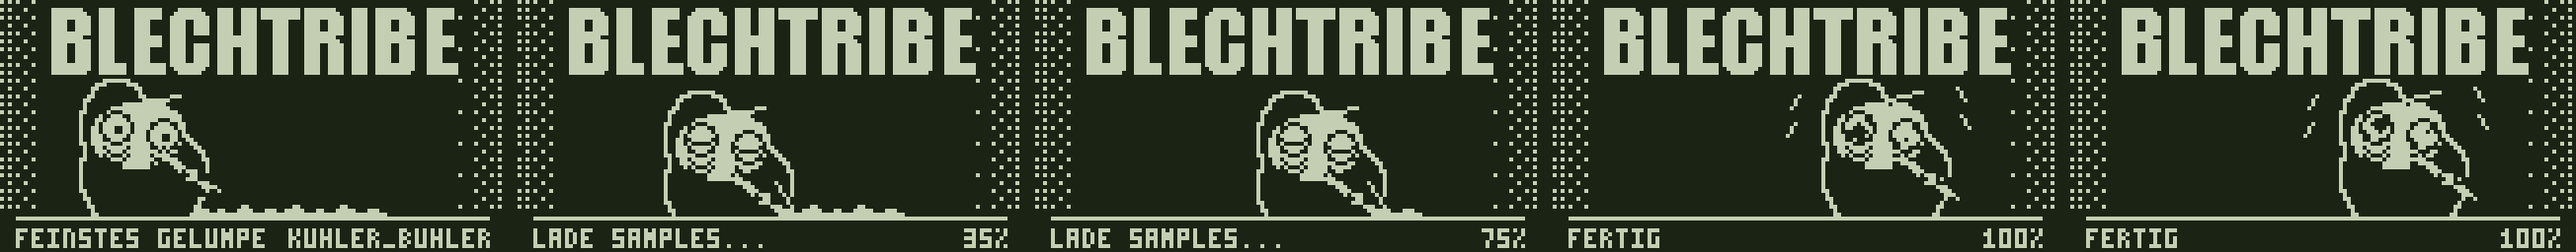
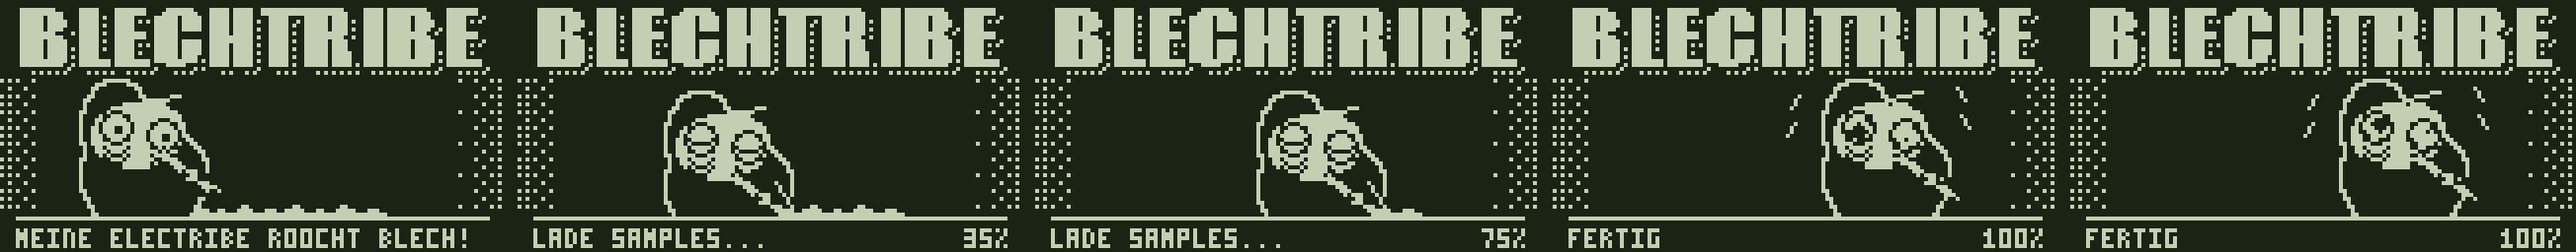
Blechy loading: full-width BLECHTRIBE with a dithered shadow, tagline MEINE ELECTRIBE ROOCHT BLECH!

Changed region(s): [[0.0, 0.0, 1.0, 0.3125], [0.0311, 0.9062, 0.1863, 1.0]]

diff --git a/entwuerfe/design-1.3/geraet/anim.py b/entwuerfe/design-1.3/geraet/anim.py
@@ -346,17 +346,47 @@ def status(image, state, x, y, *, small=False, tall=False):
     text(image, word, x, y, small=small, tall=tall)
 
 
+TAGLINE = "MEINE ELECTRIBE ROOCHT BLECH!"
+
+
 def status_line(state):
     """Footer text; the firmware fills in what it is doing."""
     return "FERTIG" if state.done else "LADE SAMPLES..."
 
 
-WORDMARK_SHIFT = 8                # the PNG starts at x 4 and is 104 wide: centred at 12
+WORDMARK_SHIFT = 0                # make_wordmark() already centres it
+IMPACT = Path("/System/Library/Fonts/Supplemental/Impact.ttf")
+
+
+def make_wordmark():
+    """Write blechtribe-titel.png: Impact stretched to 118 x 15 at (4, 2), with a
+    dithered shadow 2 px right and down, kept clear of the letters by one pixel.
+    Needs Impact (macOS); everyone else reads the checked-in PNG."""
+    from PIL import ImageFont
+    for size in range(40, 8, -1):
+        font = ImageFont.truetype(str(IMPACT), size)
+        l, t, rr, b = font.getbbox("BLECHTRIBE")
+        if b - t <= 15:
+            break
+    glyphs = Image.new("L", (rr - l, b - t), 0)
+    ImageDraw.Draw(glyphs).text((-l, -t), "BLECHTRIBE", font=font, fill=255)
+    glyphs = glyphs.resize((118, b - t), Image.Resampling.NEAREST).point(lambda v: 255 if v >= 128 else 0, "1")
+    letters = blank()
+    letters.paste(glyphs, (4, 2))
+    halo = letters.filter(ImageFilter.MaxFilter(3))
+    shadow = ImageChops.offset(letters, 2, 2)
+    out = letters.copy()
+    po, ps, ph = out.load(), shadow.load(), halo.load()
+    for y in range(H):
+        for x in range(W):
+            if ps[x, y] and not ph[x, y] and (x + y) % 2 == 0:
+                po[x, y] = LIGHT
+    ImageChops.invert(out.convert("L")).convert("1").save(HERE / "blechtribe-titel.png")
 
 
 @lru_cache(maxsize=1)
 def wordmark():
-    """BLECHTRIBE as one word, Impact 22 at (4, 2), read from the checked-in PNG (black = lit)."""
+    """BLECHTRIBE with its dithered shadow, read from the checked-in PNG (black = lit)."""
     with Image.open(HERE / "blechtribe-titel.png") as source:
         return ImageChops.invert(source.convert("L")).point(lambda v: 255 if v >= 128 else 0, "1")
 
@@ -385,14 +415,14 @@ def draw_dashes(image, state):
 LUMPS = tuple(int(c) for c in "0111001100012210001110011221000110001221100011100")
 
 BAYER4 = (0, 8, 2, 10, 12, 4, 14, 6, 3, 11, 1, 9, 15, 7, 13, 5)
-BAND_WIDTH, BAND_BOTTOM = 14, 53
+BAND_WIDTH, BAND_TOP, BAND_BOTTOM = 14, 20, 53     # below the full-width wordmark
 
 
 def draw_bands(image):
     """Static dither bands at both sides, as in the app background (bandDensity in site/design/bg.js):
     dots on a 2 pixel pitch, denser towards the edge. Drawn first, everything else covers it."""
     px = image.load()
-    for y in range(0, BAND_BOTTOM, 2):
+    for y in range(BAND_TOP, BAND_BOTTOM, 2):
         for x in range(0, W, 2):
             edge = min(x, W - 1 - x)
             if edge >= BAND_WIDTH:
@@ -427,8 +457,7 @@ def werkbank(state, t_ms=0):
     box = (0, 20, W, TABLE_Y)
     image.paste(gesture.crop(box), (0, 20), coverage.crop(box))
     if not state.started:
-        text(image, "FEINSTES GELUMPE", 4, 58, small=True)
-        text(image, "KUHLER_BUHLER", 124 - r.width3("KUHLER_BUHLER"), 58, small=True)
+        text(image, TAGLINE, 4, 58, small=True)
         return image
     text(image, status_line(state), 4, 58, small=True)
     percent(image, state)
@@ -708,8 +737,12 @@ def main():
                         help="output root containing png/neu and vorschau/neu")
     parser.add_argument("--palette", choices=("lcd", "mono"), default="lcd")
     parser.add_argument("--pack", action="store_true", help="also write preview framebuffer snapshots, not patches")
+    parser.add_argument("--wordmark", action="store_true", help="rewrite blechtribe-titel.png from Impact first")
     parser.add_argument("--controller-inverted", action="store_true", help="complement packed bits for display A7")
     args = parser.parse_args()
+    if args.wordmark:
+        make_wordmark()
+        wordmark.cache_clear()
     preview_dir, raw_dir = args.output / "vorschau/neu", args.output / "png/neu"
     preview_dir.mkdir(parents=True, exist_ok=True)
     raw_dir.mkdir(parents=True, exist_ok=True)

diff --git a/entwuerfe/design-1.3/geraet/test_anim.py b/entwuerfe/design-1.3/geraet/test_anim.py
@@ -109,8 +109,7 @@ class FrameContractTests(unittest.TestCase):
     def test_footer_shows_the_status_text(self):
         still = anim.render_frame("werkbank", 0, pose="ready", started=False).crop((0, 56, 128, 64))
         tagline = anim.blank()
-        anim.text(tagline, "FEINSTES GELUMPE", 4, 58, small=True)
-        anim.text(tagline, "KUHLER_BUHLER", 124 - anim.r.width3("KUHLER_BUHLER"), 58, small=True)
+        anim.text(tagline, "MEINE ELECTRIBE ROOCHT BLECH!", 4, 58, small=True)
         self.assertEqual(still.tobytes(), tagline.crop((0, 56, 128, 64)).tobytes(),
                          "The still splash has no status yet, only the tagline")
         self.assertEqual(anim.status_line(anim.pass_state(0.5)), "LADE SAMPLES...")

diff --git a/entwuerfe/design-1.3/geraet/render.py b/entwuerfe/design-1.3/geraet/render.py
@@ -377,6 +377,7 @@ F3 = {
     "6": "111100111101111", "7": "111001001010010", "8": "111101111101111", "9": "111101111001111",
     "%": "101001010100101", ".": "000000000000010", "_": "000000000000111", " ": "000000000000000",
     "'": "010010000000000",
+    "!": "010010010000010",
 }
 
 

diff --git a/entwuerfe/design-1.3/geraet/README.md b/entwuerfe/design-1.3/geraet/README.md
@@ -7,11 +7,14 @@ links nach rechts weg. Die Line ist der Balken: wo die Rohrspitze steht, steht d
 guckt er dich an. Beim Ziehen hat er die Augen zu, sonst bewegt sich nur das Ziehen. Bei 100 %
 reißt er sie auf: ein Auge mit riesiger, eins mit winziger Pupille, beide zittern, das kleine ist blutunterlaufen,
 die Braue zuckt, neben dem Kopf Zitterstriche wie bei den Terror-Sprites. Der Arm auf dem Tisch ist weg, nur die
-Hand mit dem Röhrchen bleibt. Oben mittig
-BLECHTRIBE als ein Wort (Impact 22, `blechtribe-titel.png`). Unten im Startbild "FEINSTES GELUMPE" und
-"KUHLER_BUHLER", beim Laden links der Status ("LADE SAMPLES...", "FERTIG") und rechts die Prozentzahl. Die Line liegt
+Hand mit dem Röhrchen bleibt. Oben
+BLECHTRIBE als ein Wort, Impact auf 118 x 15 Pixel gestreckt, mit gerastertem Schatten 2 Pixel nach rechts unten
+(`blechtribe-titel.png`, neu erzeugen mit `anim.py --wordmark`, braucht Impact). Unten im Startbild
+"MEINE ELECTRIBE ROOCHT BLECH!", beim Laden links der Status ("LADE SAMPLES...", "FERTIG") und rechts die Prozentzahl. Die Line liegt
 auf dem Tisch und hat Buckel (1 bis 2 Pixel). Hintergrund: feste Dither-Bänder an beiden Rändern wie
-in der App (`bandDensity` in `site/design/bg.js`), Punkte im 2-Pixel-Raster, zum Rand hin dichter, 14 Pixel breit.
+in der App (`bandDensity` in `site/design/bg.js`), Punkte im 2-Pixel-Raster, zum Rand hin dichter, 14 Pixel breit,
+unter dem Schriftzug ab Zeile 20. Die Varianten des Schriftzugs liegen in `vorschau/schriftzug-varianten.png`
+(gewählt: B und E zusammen).
 Keine Sterne mehr (fallende sahen mit dem Hut nach Weihnachtsmann im Schnee aus).
 
 **Die Vorgabe lautet höchstens 20 Bilder pro Sekunde** (Rückmeldung 20.10.: ein Pixel braucht am Gerät grob
